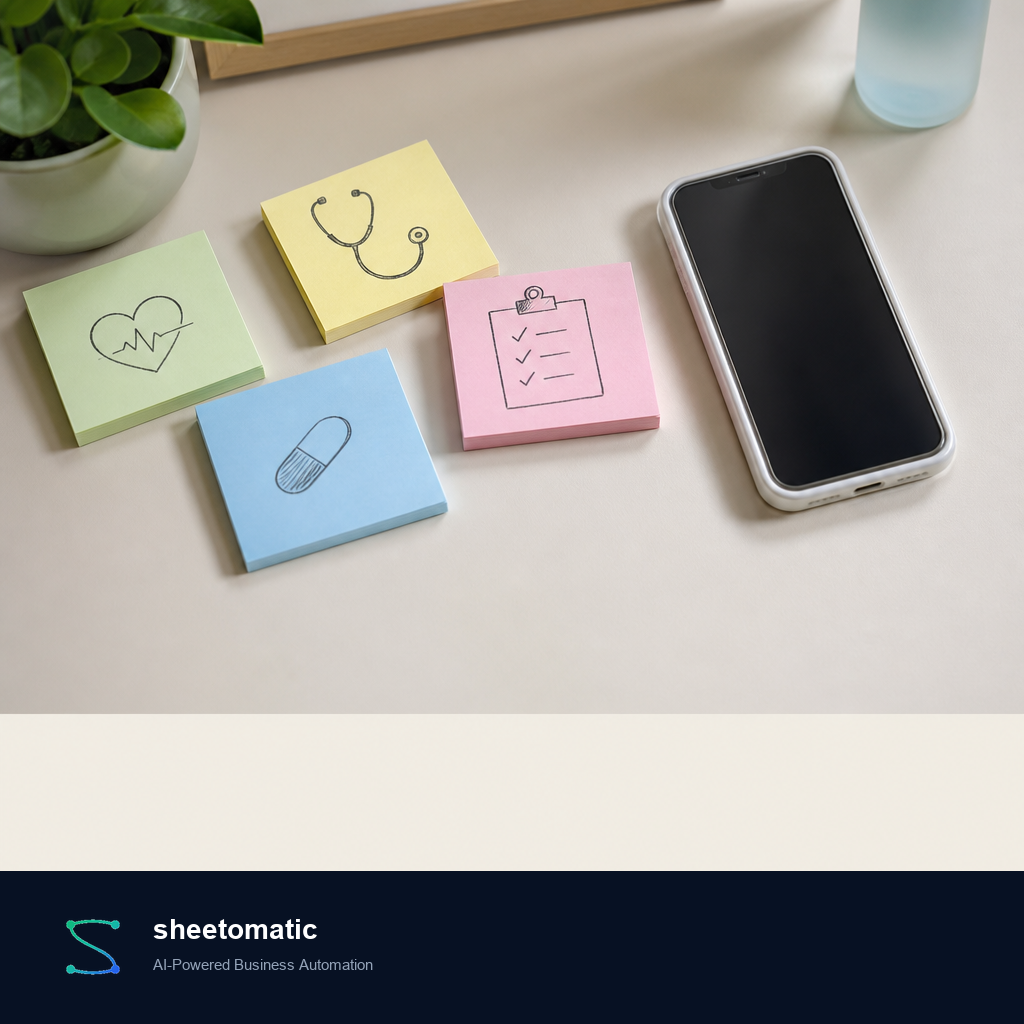
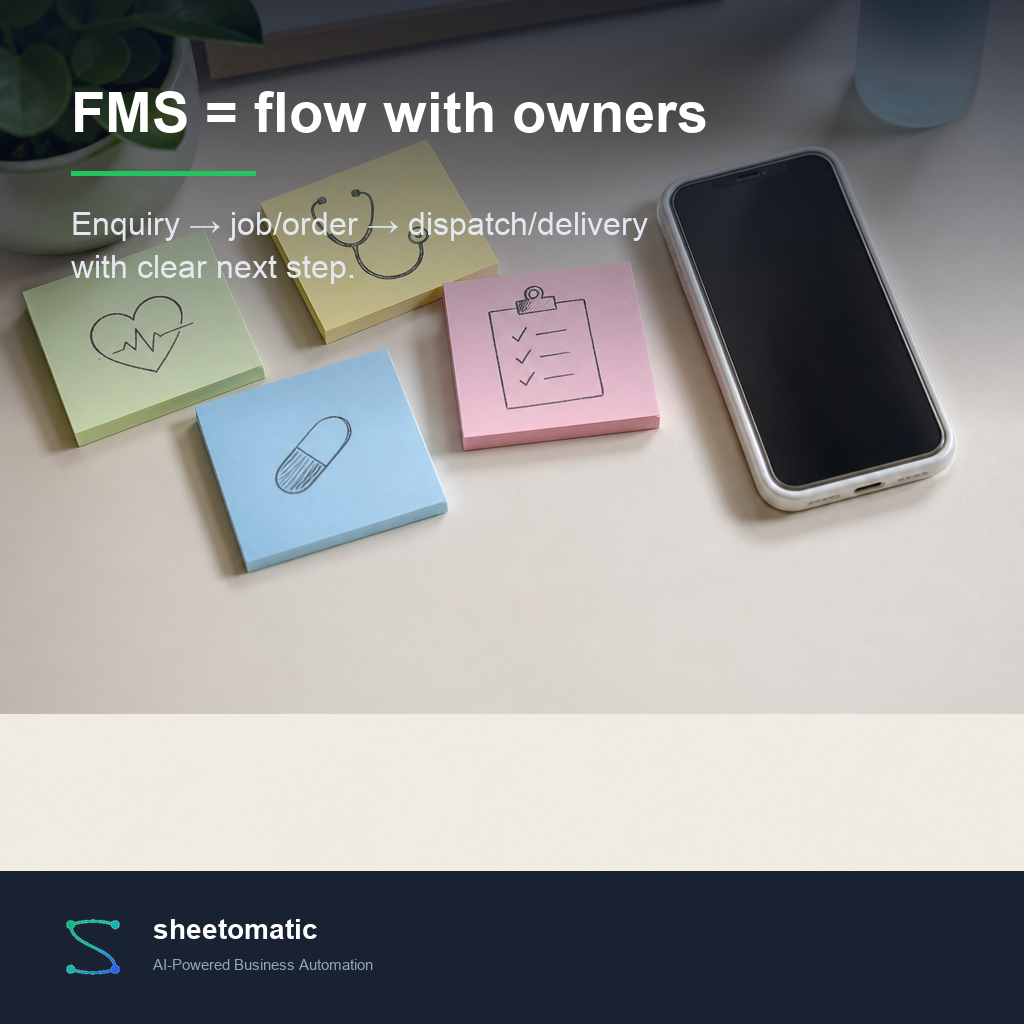
fix(social): put story text on Sat/Sun carousel slides
Keep LinkedIn captions empty for weekend posts; burn readable slide copy into carousel images instead.

diff --git a/src/components/my-space/social-schedule-board.tsx b/src/components/my-space/social-schedule-board.tsx
@@ -284,8 +284,8 @@ export function SocialScheduleBoard({ schedule }: { schedule: SocialSchedule }) 
               <label className="ssb-label">Caption</label>
               {isVisualOnly ? (
                 <p className="ssb-visual-only">
-                  Visual / carousel post — <strong>no caption text</strong> (Sat &amp;
-                  Sun pack).
+                  Sat &amp; Sun: <strong>no LinkedIn caption</strong>. Story text is{" "}
+                  <strong>on the carousel slides</strong> — open full image to read.
                 </p>
               ) : (
                 <pre className="ssb-caption">{selected.caption}</pre>
@@ -314,8 +314,8 @@ export function SocialScheduleBoard({ schedule }: { schedule: SocialSchedule }) 
                 </>
               ) : (
                 <p className="ssb-note">
-                  Weekend carousels are visual-only. Approve as-is, or message Sam
-                  for new slides.
+                  Weekend = post carousel only (empty caption). Slide copy is inside
+                  the images. Approve as-is, or ask Sam for slide rewrites.
                 </p>
               )}
 
